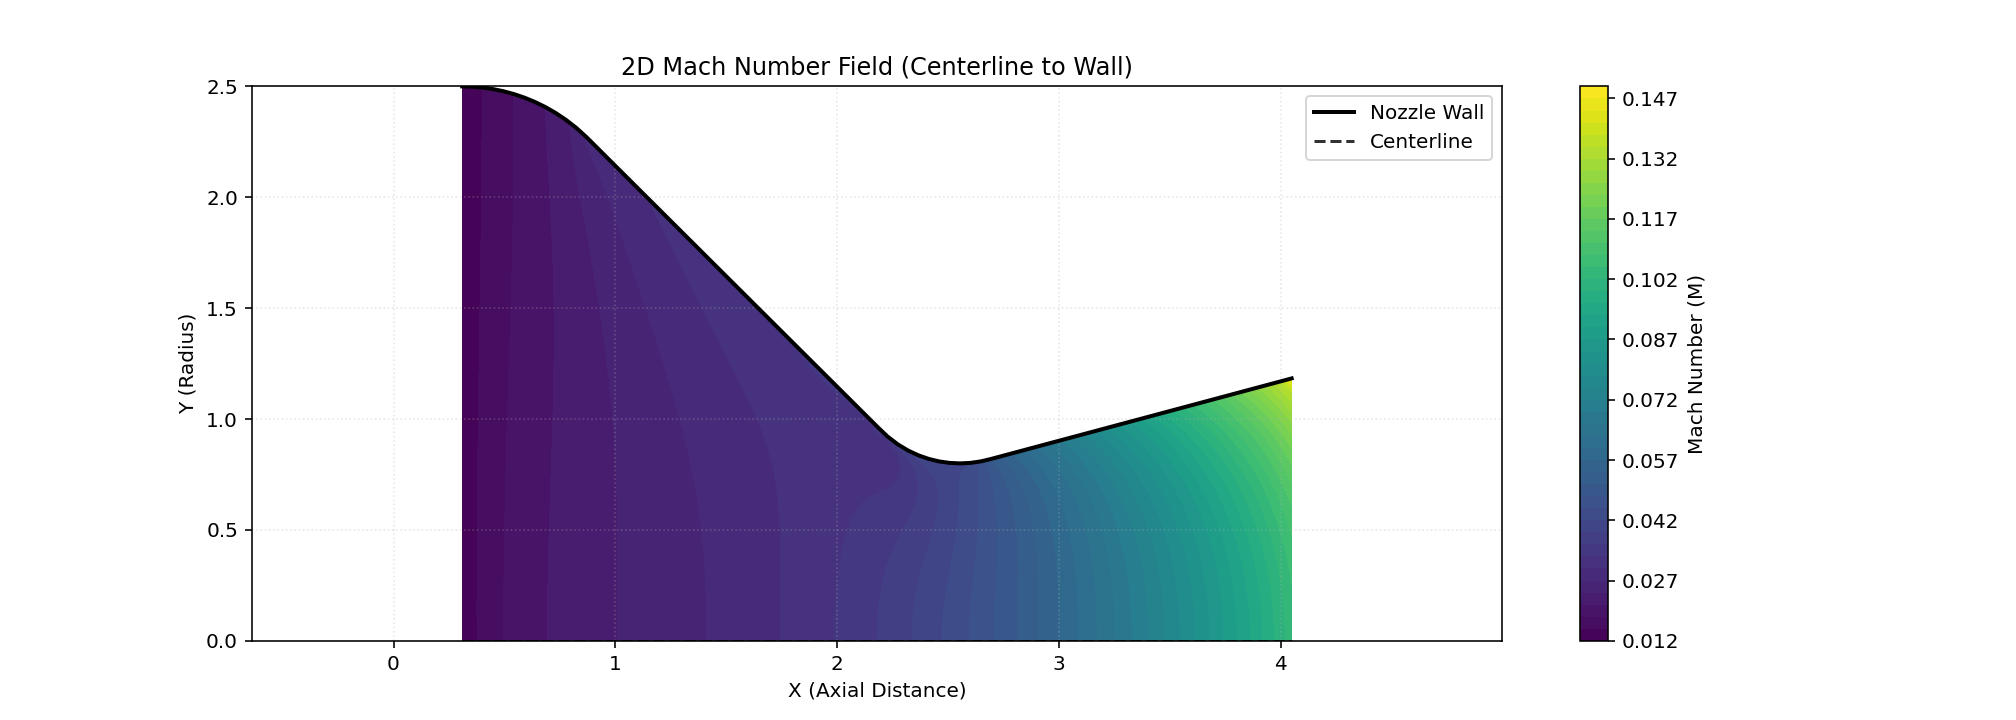
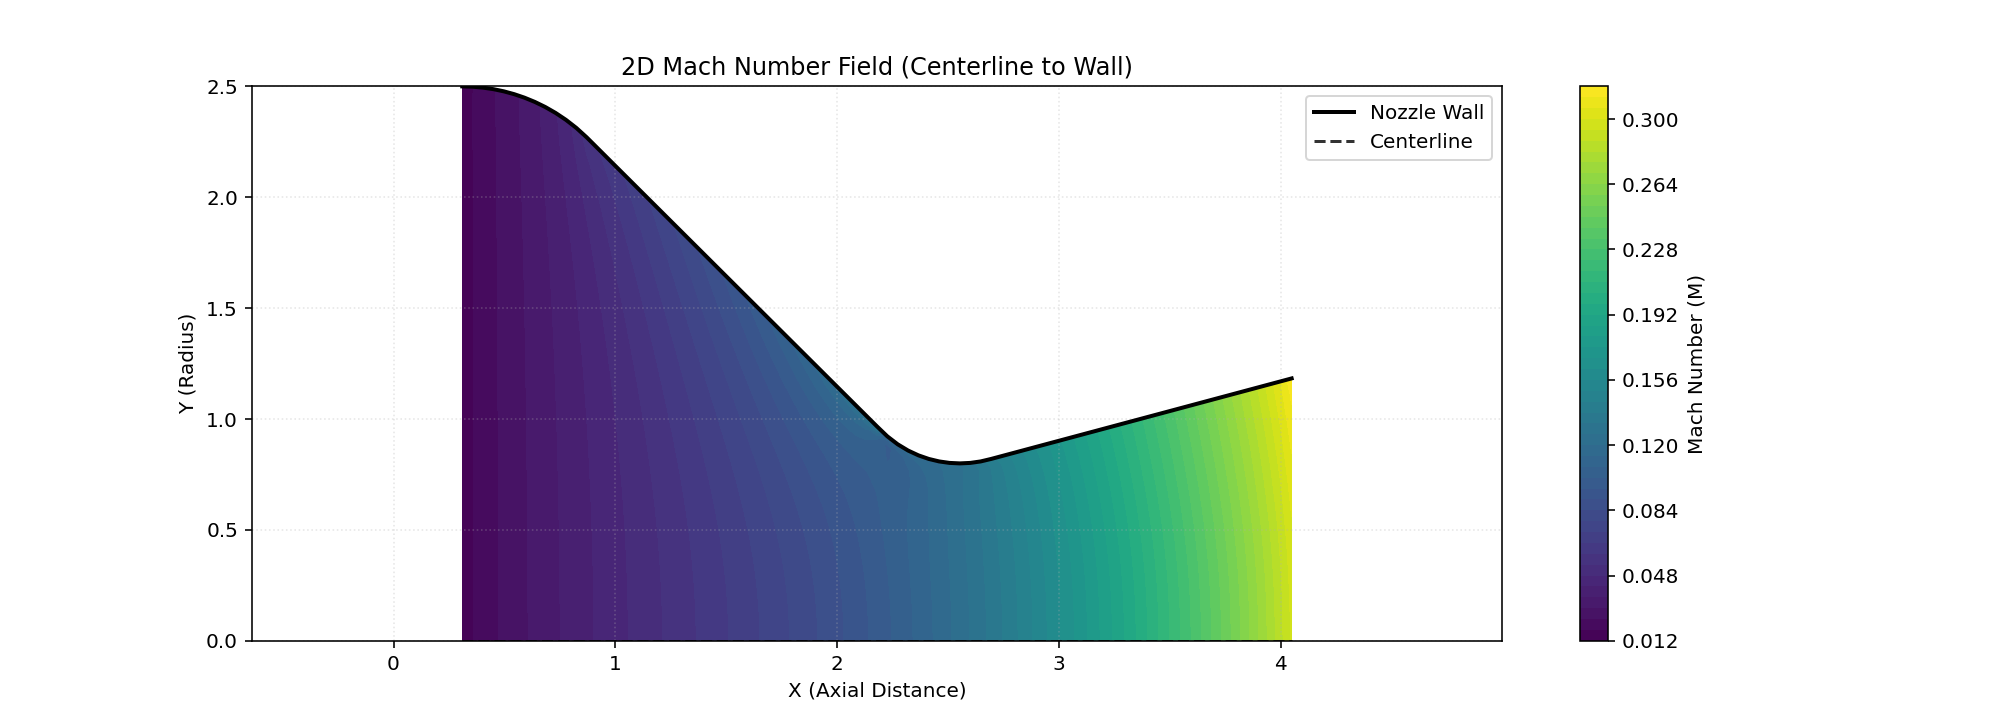
Add 2D troubleshooting updates and diagnostics outputs

diff --git a/main_backup.py b/main_backup.py
@@ -524,7 +524,7 @@ def initalize_simulation():
               'tc': 530.0,              # Stagnation Temperature (degR)
               'ftd': 1.6,               # Fractional Delta Time (maybe?)
               # --- New Shock/AV Parameters from shock.f ---
-              'iav': 0,                 # Artificial Viscosity Switch (1=On)
+              'iav': 1,                 # Artificial Viscosity Switch (1=On) 
               'cav': 1.0,               # Viscosity Coefficient 
               'xla': 1.0,               # Lambda coefficient 
               'xmu': 1.0,               # Mu coefficient 
@@ -881,14 +881,12 @@ def apply_inlet_bc(u, v, p, d, n1, n3, dt, params, geometry, step_type):
     gam2 = (gamma - 1.0) / 2.0
     grgb = gamma * rgas * g
 
-    n_state = n1 if step_type == 'predictor' else n3
-
     for m in range(mmax):
         # 1. Characteristic Origin (X2) Interpolation
         # Current state at the boundary
-        u0 = u[0, m, n_state]
-        p0 = p[0, m, n_state]
-        d0 = d[0, m, n_state]
+        u0 = u[0, m, n1]
+        p0 = p[0, m, n1]
+        d0 = d[0, m, n1]
         a0 = np.sqrt(gamma * p0 * 144.0 * g / d0)
         
         # Characteristic distance back into the interior
@@ -896,9 +894,9 @@ def apply_inlet_bc(u, v, p, d, n1, n3, dt, params, geometry, step_type):
         weight = -dist * dxr # Weighting factor for interpolation
 
         # Interpolate properties at the characteristic origin (X2)
-        u2 = u0 + (u[1, m, n_state] - u0) * weight
-        p2 = p0 + (p[1, m, n_state] - p0) * weight
-        d2 = d0 + (d[1, m, n_state] - d0) * weight
+        u2 = u0 + (u[1, m, n1] - u0) * weight
+        p2 = p0 + (p[1, m, n1] - p0) * weight
+        d2 = d0 + (d[1, m, n1] - d0) * weight
         a2 = np.sqrt(gamma * p2 * 144.0 * g / d2)
 
         # 2. Iterative Solve for Boundary State (MN3)
@@ -1027,7 +1025,7 @@ def apply_wall_bc(u, v, p, d, n1, n3, dt, params, geometry, step_type='predictor
         # Step forward for Pressure (P)
         dp_characteristic = -sign*ro_avg*a_avg * (al_avg*(u_new - u2) + be_avg*(v_new - v2))
         p_source = (psi42 + a_avg*a_avg*psi12 + sign*ro_avg*a_avg*(al_avg*psi22 + be_avg*psi32)) * dt
-        p_new = p2 + (dp_characteristic + p_source) / (144.0 * g)
+        p_new = p2 + (dp_characteristic + p_source) / 144.0 # Convert back to psia
         
         # Safety checks from wall.f line 270
         if p_new <= 0: p_new = params.get('plow', 0.001) * params['pc']
@@ -1183,14 +1181,12 @@ def run_simulation(u, v, p, d, params, geometry):
         dt = calculate_time_step(u, v, p, d, n1, params)
         params['dt'] = dt # Required by calculate_shock_viscosity
 
-        q_u = np.zeros((params['lmax'], params['mmax']))
-        q_v = np.zeros((params['lmax'], params['mmax']))
-        q_p = np.zeros((params['lmax'], params['mmax']))
-        if params.get('iav', 0) == 1:
-            # Step 2b - Calculate Shock Viscosity (SHOCK IPASS=1)
-            q_u, q_v, q_p = calculate_shock_viscosity(u, v, p, d, n1, params, geometry, params['q_old'])
-            # Save current Q for the next step's relaxation (CTA)
-            params['q_old'] = {'u': q_u, 'v': q_v, 'p': q_p}
+        # Step 2b - Calculate Shock Viscosity (SHOCK IPASS=1) 
+        # This populates the QUT, QVT, QPT terms for this time step
+        q_u, q_v, q_p = calculate_shock_viscosity(u, v, p, d, n1, params, geometry, params['q_old'])
+        
+        # Save current Q for the next step's relaxation (CTA) 
+        params['q_old'] = {'u': q_u, 'v': q_v, 'p': q_p}
 
         # Step 2c - Predictor Step (INTER - first MacCormack Step)
         # Uses backward finite differences to predict flow at N+1.
@@ -1243,3 +1239,5 @@ if __name__ == '__main__':
     plot_simulation_results(u, v, p, d, geometry, params)
     plot_pressure_contours(u, v, p, d, geometry, params)    
     plot_mach_contours(u, v, p, d, geometry, params)
+
+
